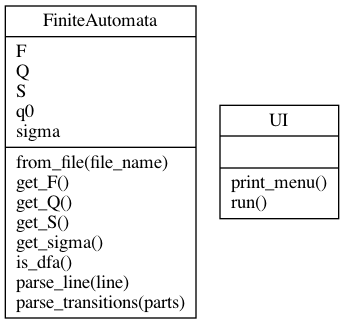
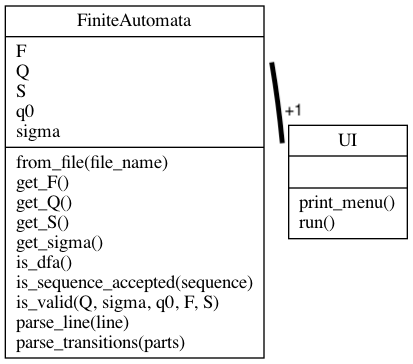
Finished Lab4

Changed region(s): [[0.0, 0.0, 0.9884, 0.9877]]

diff --git a/Lab4/src/models/finite_automata.py b/Lab4/src/models/finite_automata.py
@@ -14,24 +14,26 @@ class FiniteAutomata:
         return 'Σ = { ' + ', '.join(self.sigma) + ' }'
 
     def get_S(self):
-        return 'S = { ' + ', '.join([' -> '.join([str(part) for part in trans]) for trans in self.S]) + ' }'
+        return 'S = { ' + ', '.join([(str(key) + ' -> ' + str(self.S[key])) for key in self.S.keys()]) + ' }'
 
     def get_F(self):
         return 'F = { ' + ', '.join(self.F) + ' }'
 
     def is_dfa(self):
-        paths = {}
-        for transition in self.S:
-            state1, route = transition[0]
-            if (state1, route) in paths.keys():
-                paths[(state1, route)] += 1
-            else:
-                paths[(state1, route)] = 1
-        for edge_count in paths.values():
-            if edge_count > 1:
+        for transition in self.S.keys():
+            if len(self.S[transition]) > 1:
                 return False
         return True
 
+    def is_sequence_accepted(self, sequence):
+        if not self.is_dfa():
+            return False
+        state = self.q0
+        for symbol in sequence.strip():
+            if (state, symbol) not in self.S.keys():
+                return False
+            state = self.S[state, symbol][0]
+        return state in self.F
 
     @staticmethod
     def from_file(file_name):
@@ -42,6 +44,10 @@ class FiniteAutomata:
             F = FiniteAutomata.parse_line(file.readline())
             S = FiniteAutomata.parse_transitions(FiniteAutomata.parse_line(''.join([line for line in file])))
 
+            if not FiniteAutomata.is_valid(Q, sigma, q0, F, S):
+                print("Invalid FA read from file.")
+                return None
+
             return FiniteAutomata(Q, sigma, q0, F, S)
 
     @staticmethod
@@ -50,7 +56,7 @@ class FiniteAutomata:
 
     @staticmethod
     def parse_transitions(parts):
-        result = []
+        result = {}
         transitions = []
         index = 0
 
@@ -63,14 +69,30 @@ class FiniteAutomata:
             state2 = rhs.strip()
             state1, route = [value.strip() for value in lhs.strip()[1:-1].split(',')]
 
-            result.append(((state1, route), state2))
-
-            # if (state1, route) in result:
-            #     result[(state1, route)].append(state2)
-            # else:
-            #     result[(state1, route)] = [state2]
+            if (state1, route) in result:
+                result[(state1, route)].append(state2)
+            else:
+                result[(state1, route)] = [state2]
 
         return result
+
+    @staticmethod
+    def is_valid(Q, sigma, q0, F, S):
+        if q0 not in Q:
+            return False
+        for transition in S.keys():
+            state1, route = transition
+            if state1 not in Q:
+                return False
+            if route not in sigma:
+                return False
+            for state2 in S[transition]:
+                if state2 not in Q:
+                    return False
+        for state2 in F:
+            if state2 not in Q:
+                return False
+        return True
 
     def __str__(self):
         return 'The defined Finite Automata:\n' \
@@ -78,4 +100,4 @@ class FiniteAutomata:
                + 'Σ = { ' + ', '.join(self.sigma) + ' }\n' \
                + 'q0 = ' + str(self.q0) + '\n' \
                + 'F = { ' + ', '.join(self.F) + ' }\n' \
-               + 'S = { ' + ', '.join([' -> '.join([str(part) for part in trans]) for trans in self.S]) + ' }\n'
+               + 'S = { ' + ', '.join([(str(key) + ' -> ' + str(self.S[key])) for key in self.S.keys()]) + ' }\n'

diff --git a/Lab4/src/ui/ui.py b/Lab4/src/ui/ui.py
@@ -14,6 +14,7 @@ class UI:
         s += '3 - All the transitions\n'
         s += '4 - The set of final states\n'
         s += '5 - Check valid DFA\n'
+        s += '6 - Check accepted sequence\n'
         s += '0 - Exit'
         print(s)
 
@@ -39,6 +40,12 @@ class UI:
                         print("The Finite Automata is deterministic")
                     else:
                         print("The Finite Automata is nondeterministic")
+                elif command == 6:
+                    sequence = input('Give a sequence: ')
+                    if self.__finite_automata.is_sequence_accepted(sequence):
+                        print("Valid sequence")
+                    else:
+                        print("Invalid sequence")
                 else:
                     print('Invalid command')
             except RuntimeError as e:
